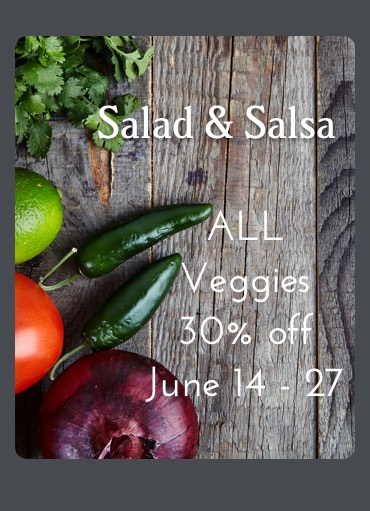
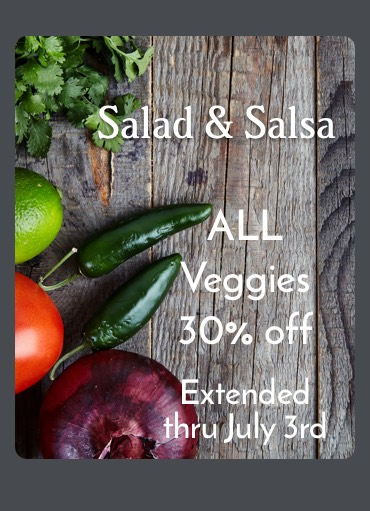
fix sales etc

diff --git a/pages/natives/philadelphus.htm b/pages/natives/philadelphus.htm
@@ -19,7 +19,7 @@ is_hidden = 0
             <div class="col-md-8 left-inner">
                 <p>One of the loveliest, but remarkably underused, natives of the late spring/early summer is our native Mock Orange, <em>Philadelphus lewisii</em>.</p>
 
-                <p>The state flower of Idaho, it was discovered by Meriwether Lewis and gets its common name from the delicious orangey scent that makes it attractive to bees and humans alike.</p>
+                <p>The state flower of Idaho, it gets its common name from the delicious orangey scent that makes it attractive to bees and humans alike.</p>
 
                 <p>Flowering for several weeks starting in late May or early June, the tall, arching branches are covered with a multitude of snow-white blossoms of usually four petals, pale yellow in the center. After the petals fall, the sepals remain in a way that looks like a second, different type of flower, providing some longer seasonal interest.</p>
 

diff --git a/partials/mainnav.htm b/partials/mainnav.htm
@@ -324,10 +324,10 @@
 
                                                      <li><a href="/natives/butterflies/">Attract Butterflies with Natives</a></li>
 <!--
-                                                    <li><a href="#">Plant a Rose Garden</a></li>
+                                                    <li><a href="#">Plant a Rose Garden</a></li>-->
 
-                                                    <li><a href="#">See more projects...</a></li>
--->
+                                                     <li><a href="/resources/brochures/">See all of our solutions and planning advice</a></li>
+
 
                                                   <!-- End Projects -->
 

diff --git a/pages/resources/sales.htm b/pages/resources/sales.htm
@@ -20,7 +20,7 @@ is_hidden = 0
 
                 <div class="row planttable">
 	                <div class="col-md-12">
-		                <figure> <img alt="" src="https://portlandnursery.com/newsletter/images/salsa-veg-sale.jpg" style="margin: 0px;display: inline;"></figure>
+		                <figure> <img alt="" src="https://portlandnursery.com/newsletter/images/salsa-veg-sale-extended.jpg" style="margin: 0px;display: inline;"></figure>
 	                 </div>
                 </div>
 

diff --git a/partials/sidebar-marketing.htm b/partials/sidebar-marketing.htm
@@ -4,6 +4,6 @@ snippetName = "sidebar marketing"
 ==
 <div class="sidebar-marketing">
 
-<a href="/resources/sales/"><img class="img-responsive" src="{{ 'assets/images/marketing/sidebar/salad-salsa.jpg'|theme }}" alt="Portland Nursery and Garden Center" /></a>
+<a href="/resources/sales/"><img class="img-responsive" src="{{ 'assets/images/marketing/sidebar/salad-salsa2.jpg'|theme }}" alt="Portland Nursery and Garden Center" /></a>
 
  </div>
